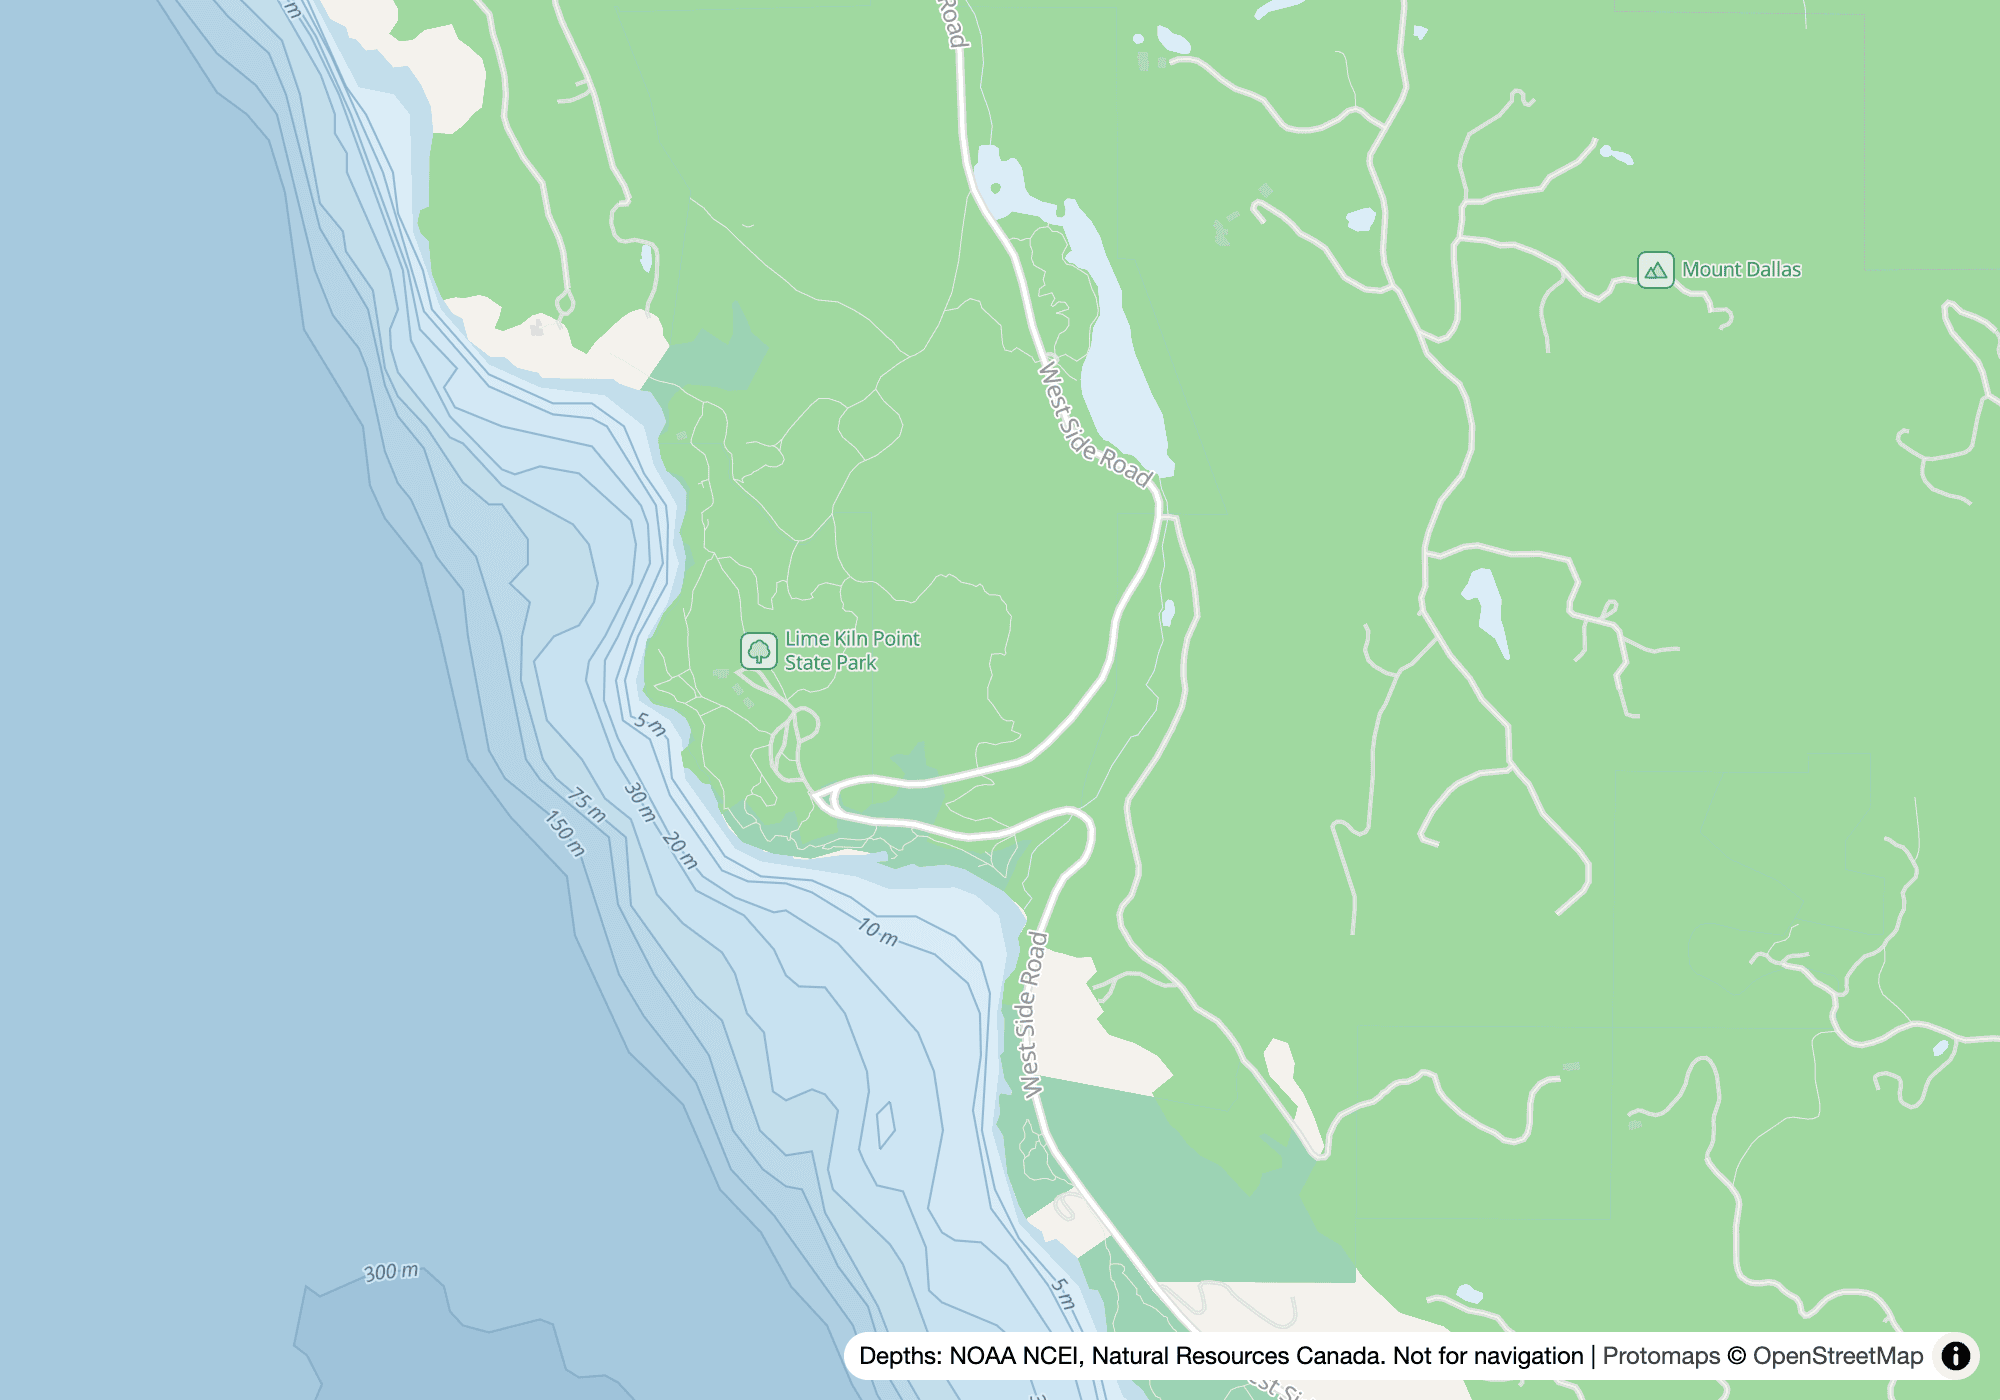
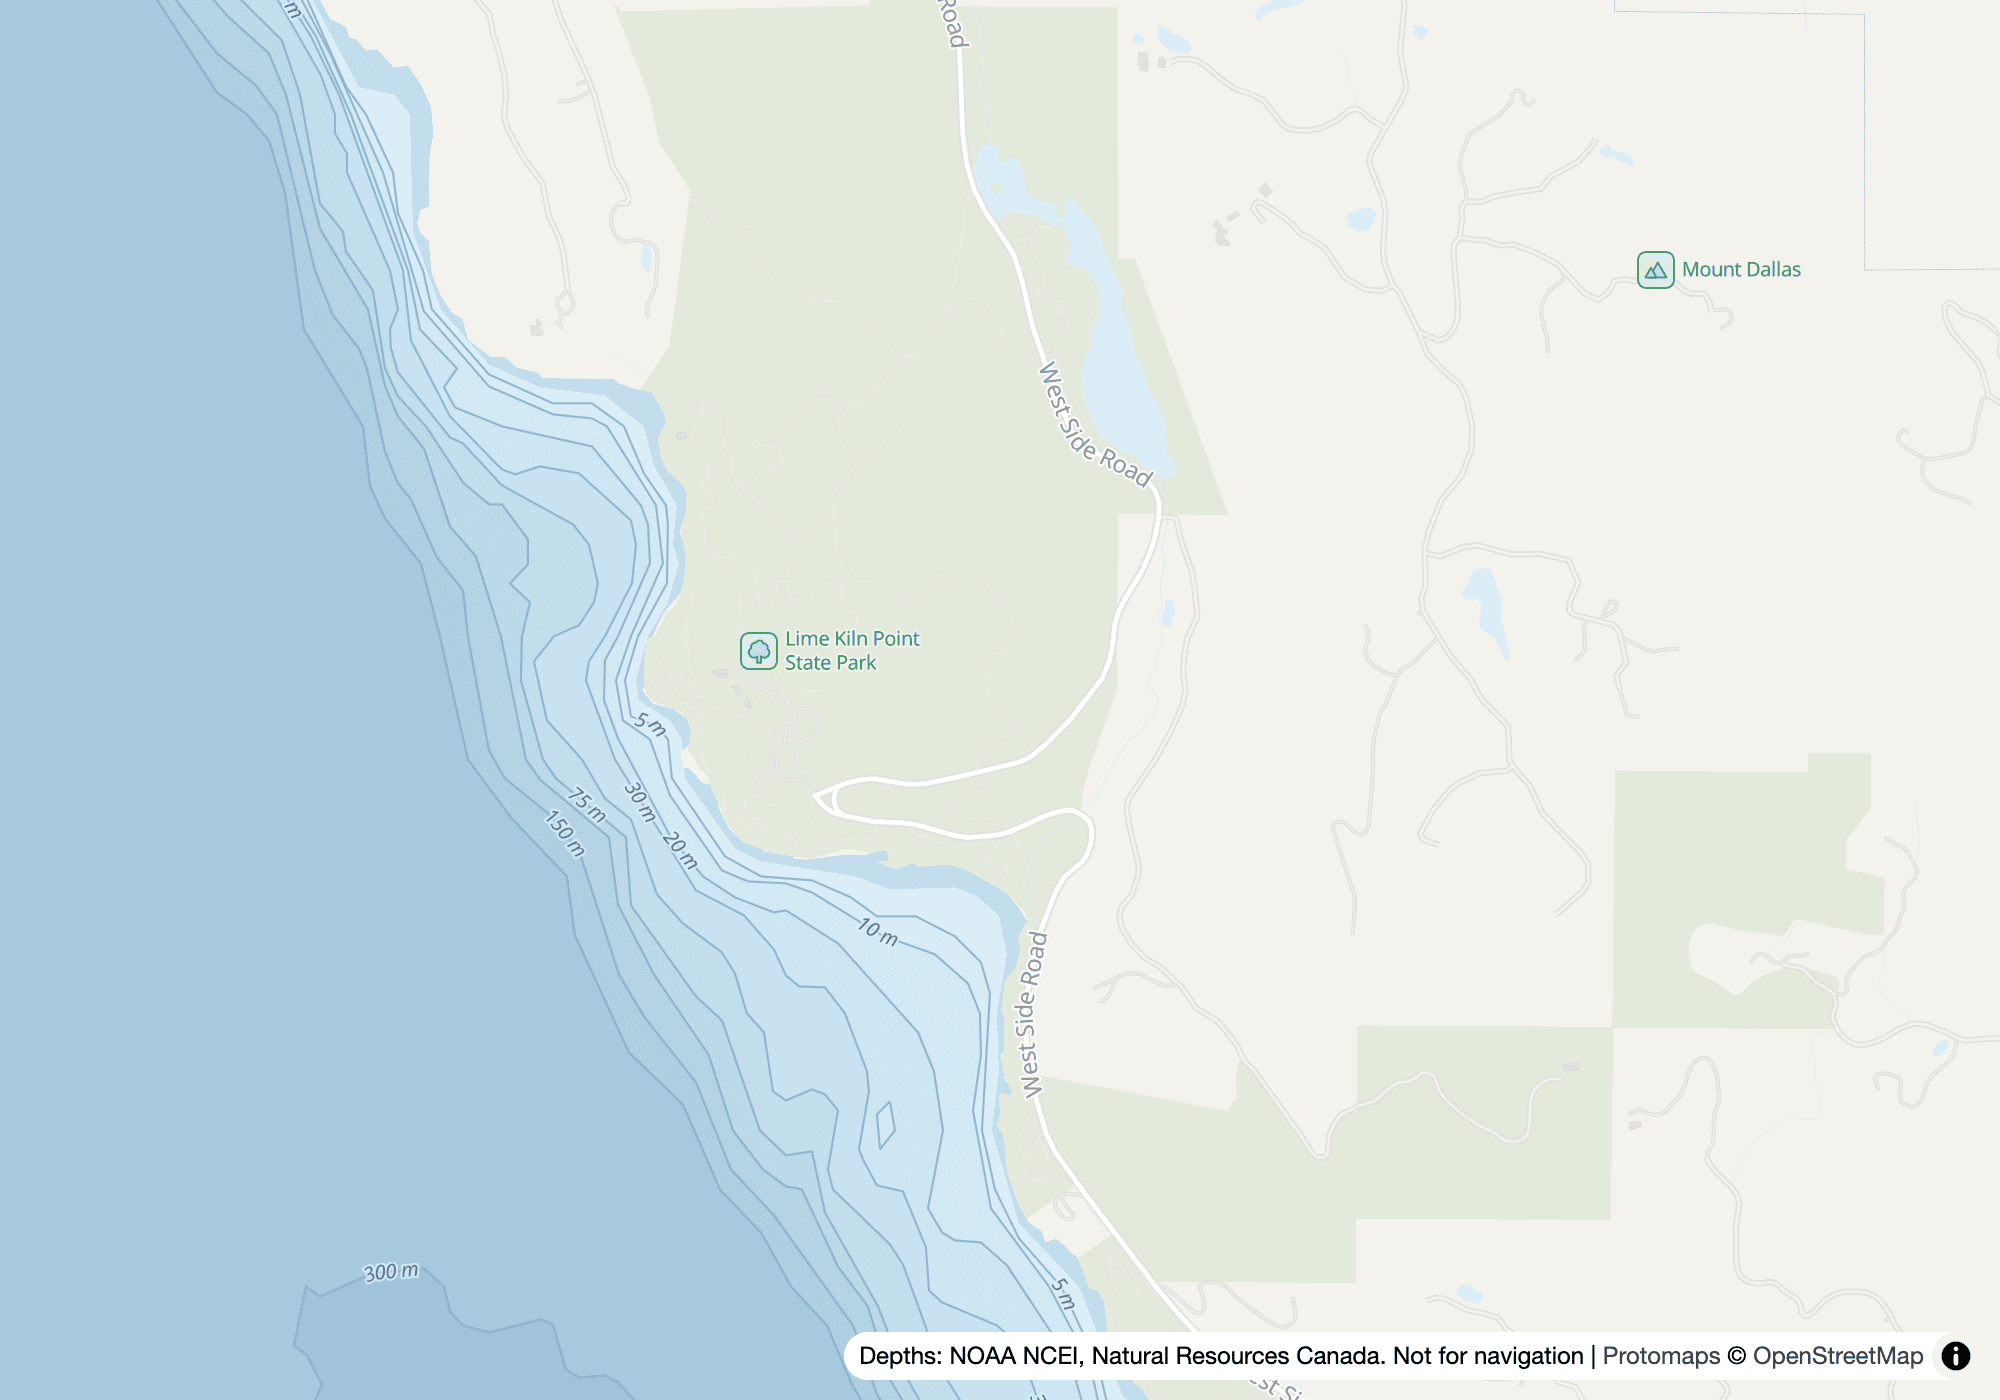
Land in one flat colour except parks; relief at a quarter strength
Peter's tuning after trying the first build: Protomaps' land cover made a
green and cream patchwork that competed with the sightings, so land is now
one colour shaped by the relief, as on Esri's ocean basemap, with parks in
a faint green because many are shore-watching spots (decision 003). The
relief's default strength drops from 0.5 to 0.25 (decision 002).

diff --git a/style/style.ts b/style/style.ts
@@ -9,12 +9,15 @@
 import { layers, namedFlavor, type Flavor } from '@protomaps/basemaps';
 import type { LayerSpecification, StyleSpecification } from 'maplibre-gl';
 
+/** How much of the relief shows by default: enough to give the seafloor shape, not so much that it competes with the depth tints. */
+export const DEFAULT_RELIEF_STRENGTH = 0.25;
+
 export interface Options {
   /** Where the archives are, ending in a slash, e.g. `https://tiles.salishsea.io/v1/`. */
   base: string;
   /** Whether to shade the seafloor and land. MapLibre shades them from elevation tiles. */
   relief?: boolean;
-  /** How much of the relief shows, 0 to 1. Decision 073 starts at about a half. */
+  /** How much of the relief shows, 0 to 1. */
   reliefStrength?: number;
 }
 
@@ -44,6 +47,18 @@ const flavor: Flavor = {
 // Kinds of Protomaps water polygon that are the sea. They are left out, so the depth
 // bands beneath show through; lakes, rivers and docks are still drawn.
 const MARINE_KINDS = ['ocean', 'bay', 'strait', 'sound', 'fjord', 'reef'];
+
+// Land is one flat colour, shaped by the relief, as on Esri's ocean basemap: what covers
+// it (forest, farmland, hospitals) says nothing about where whales are and competes with
+// the sightings. Parks are the exception, faintly, because many are where people watch
+// from shore, such as Lime Kiln Point. Piers are kept, as part of the shoreline
+// (decisions/003).
+const PARK_KINDS = ['park', 'national_park', 'nature_reserve', 'protected_area'];
+const PARK = '#e4eadb';
+
+function isLandCover(id: string): boolean {
+  return id === 'landcover' || (id.startsWith('landuse_') && id !== 'landuse_pier' && id !== 'landuse_park');
+}
 
 function depthLayers(): { bands: LayerSpecification[]; isobaths: LayerSpecification[]; labels: LayerSpecification[] } {
   const tint: unknown[] = ['step', ['get', 'depth']];
@@ -112,12 +127,21 @@ function reliefLayers(strength: number): LayerSpecification[] {
   }];
 }
 
-export function basemapStyle({ base, relief = true, reliefStrength = 0.5 }: Options): StyleSpecification {
+export function basemapStyle({ base, relief = true, reliefStrength = DEFAULT_RELIEF_STRENGTH }: Options): StyleSpecification {
   // `lang` adds the label layers; Protomaps' type definitions leave it out.
   const protomaps = layers('protomaps', flavor, { lang: 'en' } as { labelsOnly?: boolean }) as LayerSpecification[];
   const depth = depthLayers();
   const out: LayerSpecification[] = [];
   for (const layer of protomaps) {
+    if (isLandCover(layer.id)) continue;
+    if (layer.id === 'landuse_park') {
+      out.push({
+        ...layer,
+        filter: ['in', ['get', 'kind'], ['literal', PARK_KINDS]],
+        paint: { 'fill-color': PARK, 'fill-opacity': ['interpolate', ['linear'], ['zoom'], 8, 0, 10, 1] },
+      } as LayerSpecification);
+      continue;
+    }
     if (layer.id === 'earth') out.push(...depth.bands);
     if (layer.id === 'water') {
       out.push({

diff --git a/viewer/main.ts b/viewer/main.ts
@@ -6,7 +6,7 @@ import { addProtocol, Map, setWorkerUrl, type StyleSpecification } from 'maplibr
 import maplibreWorker from 'maplibre-gl/dist/maplibre-gl-worker.mjs?url';
 import 'maplibre-gl/dist/maplibre-gl.css';
 import { Protocol } from 'pmtiles';
-import { basemapStyle } from '../style/style.ts';
+import { basemapStyle, DEFAULT_RELIEF_STRENGTH } from '../style/style.ts';
 
 setWorkerUrl(maplibreWorker);
 addProtocol('pmtiles', new Protocol().tile);
@@ -21,8 +21,8 @@ type Variant = keyof typeof VARIANTS;
 const params = new URLSearchParams(location.search);
 const base = new URL(params.get('base') ?? '/window/', location.href).href;
 // Hillshade exaggeration runs from 0 to 1 in MapLibre's style spec.
-const requested = Number(params.get('strength') ?? 0.5);
-let strength = Number.isFinite(requested) ? Math.min(1, Math.max(0, requested)) : 0.5;
+const requested = Number(params.get('strength') ?? DEFAULT_RELIEF_STRENGTH);
+let strength = Number.isFinite(requested) ? Math.min(1, Math.max(0, requested)) : DEFAULT_RELIEF_STRENGTH;
 
 // The app's Okabe–Ito group colours (salishsea-io src/symbology.ts).
 const SIGHTING_COLOURS = ['#1a1a1a', '#0072B2', '#5B2C8D', '#56B4E9', '#009E73', '#E69F00', '#D55E00', '#CC79A7'];

diff --git a/viewer/index.html b/viewer/index.html
@@ -16,7 +16,7 @@
 </head>
 <body>
   <header>
-    <label>Relief strength <input id="strength" type="range" min="0" max="1" step="0.05" value="0.5"> <output id="strength-value">0.5</output></label>
+    <label>Relief strength <input id="strength" type="range" min="0" max="1" step="0.05" value="0.25"> <output id="strength-value">0.25</output></label>
     <label><input id="sightings" type="checkbox" checked> Stand-in sightings</label>
     <span id="zoom"></span>
   </header>

diff --git a/decisions/003-land-is-flat-except-parks.md b/decisions/003-land-is-flat-except-parks.md
@@ -1,0 +1,17 @@
+# 003 — Land is one flat colour, except parks
+
+**Status:** accepted · **Decided:** 2026-10-13, by Peter
+
+## Context
+
+The style starts from Protomaps' light flavour, which colours land by what covers it: greens for forest, grass, scrub and parks, cream for farmland and bare ground, and other tints for hospitals, schools, airports and industry. Over the San Juan Islands this made a strong patchwork of green and yellow that tells someone looking for whales nothing and competes with the coloured sighting dots. Esri's ocean basemap, which SalishSea.io uses today, draws land in one flat colour shaped only by the relief.
+
+## Decision
+
+**Land is drawn in one colour, shaped by the relief,** as on Esri's ocean basemap. Protomaps' land-cover layer and its land-use fills are left out of the style.
+
+**Parks are the exception,** in a faint green: parks, national parks, nature reserves and protected areas. Many are where people watch from shore, such as Lime Kiln Point State Park on San Juan Island. Piers are kept too, as part of the shoreline.
+
+## Known problems
+
+- Where a marine park's boundary in OpenStreetMap takes in the water around an island, the faint green covers that water too. One shows west of Orcas Island at about z10.

diff --git a/decisions/002-the-relief-is-shaded-by-maplibre.md b/decisions/002-the-relief-is-shaded-by-maplibre.md
@@ -18,7 +18,7 @@ Elevations are rounded to a quarter of a metre, which halves the archive. Rounde
 
 ## Decision
 
-**MapLibre shades the relief from elevation tiles.** The style sets its strength (about half), its light and its fade between z11.5 and z13. The image tiles for SalishSea.io's preview cards and small maps are rendered from the same style ([074](https://github.com/salish-sea/salishsea-io/blob/main/docs/decisions/074-the-basemap-is-its-own-project-and-the-cards-draw-on-it.md)), so they get the same relief.
+**MapLibre shades the relief from elevation tiles.** The style sets its strength (a quarter, lowered from a half by Peter after the first build), its light and its fade between z11.5 and z13. The image tiles for SalishSea.io's preview cards and small maps are rendered from the same style ([074](https://github.com/salish-sea/salishsea-io/blob/main/docs/decisions/074-the-basemap-is-its-own-project-and-the-cards-draw-on-it.md)), so they get the same relief.
 
 What shading costs on a slow phone has not been measured yet (bd `salish-3zok`).
 

diff --git a/decisions/README.md b/decisions/README.md
@@ -12,3 +12,4 @@ Recorded here:
 
 - [001](001-canadas-depth-grid-comes-first.md): Canada's depth grid is used wherever it has data, NOAA's elsewhere, each kept in its own vertical datum.
 - [002](002-the-relief-is-shaded-by-maplibre.md): the relief is shaded by MapLibre from elevation tiles, not baked into image tiles.
+- [003](003-land-is-flat-except-parks.md): land is one flat colour, shaped by the relief, except for parks in a faint green.
